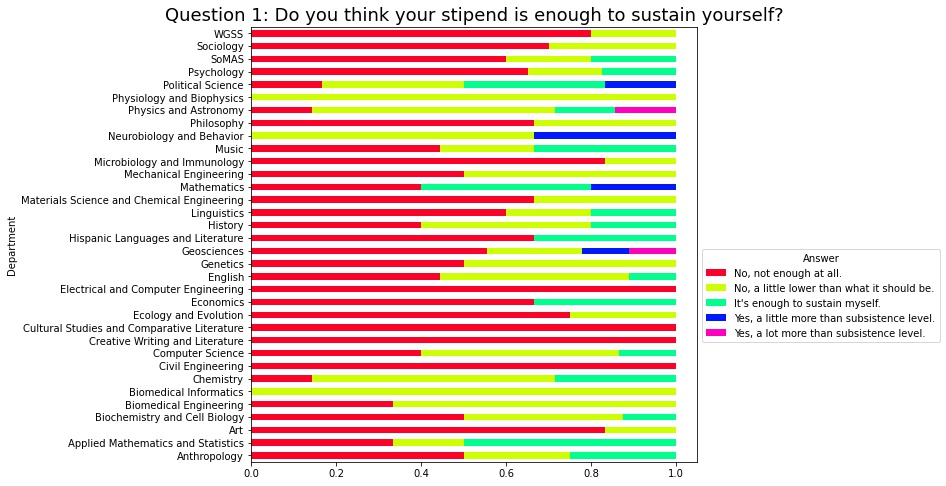
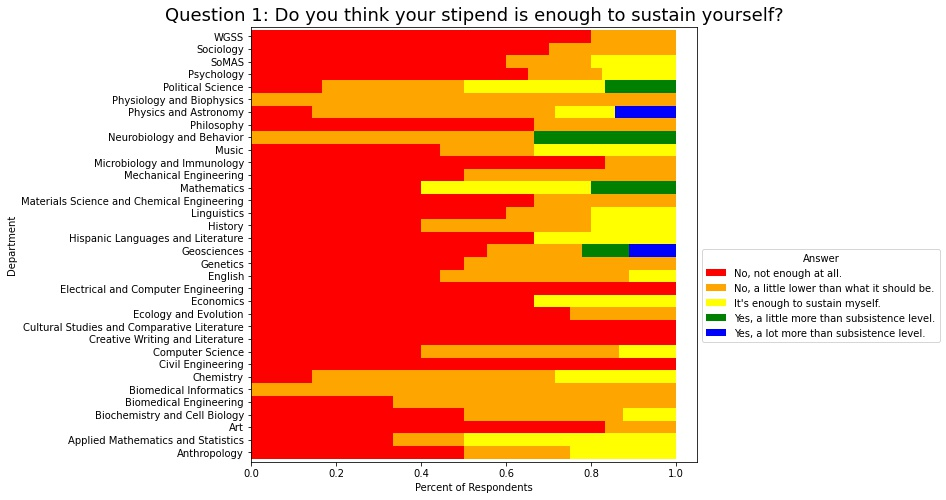
initial draft

diff --git a/index.html b/index.html
@@ -38,33 +38,69 @@
 
 									<span class="image main"><img src="images/GSEU_TwitterHeader.png" alt="" /></span>
 
-									<p>What is it like to be a graduate student in Stony Brook University? This is what we tried to find out in our recent survey on financial evaluation, which so far received 266 responses. We already knew that out of 63 AAU universities, Stony Brook ranks 57 in terms of the ratio of our net stipend to cost of living. Our findings portray with indubitable clarity the dismal life filled with anxiety and stress resulting from our financial struggles. <strong>(Read the full letter <a href="letter.html">here</a>)</strong></p>
+									<p> What is it like to be a graduate student in Stony Brook University? This is what we tried to find out in our recent survey on financial evaluation, which so far has received 266 responses. We already knew that out of 63 AAU universities, <a href="https://docs.google.com/spreadsheets/d/12QHeymmUnVK4b4Ab4DYH5rp_IVJ2F_fI">Stony Brook ranks 6th from the bottom</a> in terms of the ratio of our net stipend to cost of living. Our findings portray with indubitable clarity the dismal life filled with anxiety and stress resulting from our financial struggles. In our survey, 85% of the graduate workers said they cannot sustain themselves with their stipends, and 99% said they cannot "live comfortably, and to focus on your research, without financial worry and stress." Our financial issues force us to live paycheck to paycheck and to suffer from anxiety. Graduate workers cannot visit families, start families, leave abusive and unsafe living conditions, afford a healthy diet or pay for basic car maintenance because we do not have a living wage. <strong>We are basing our campaign on a living wage of $47,175</strong>, which was determined by the weighted average of the answers graduate workers gave when asked what they think a living wage for Suffolk County is. To read GSEU's statement on our survey at length, click <a href="letter.html">here</a>. The rest of this page includes the most significant findings from our survey.</p>
 									
-									<span class="image left"><img src="images/q1_pie.jpg" alt="" /><br><img src="images/q2_pie.jpg" alt="" /></span>
+									<h2>Grad workers struggle on current stipends</h2>
 									
-									<p>The numbers speak for themselves. We asked graduate workers if their stipend is enough to sustain themselves, 85% answered no. We asked them if their stipend is enough to “live comfortably, and to focus on your research, without financial worry and stress,” 99% said no. To the question in which we asked if they have encountered financial problems during their time in Stony Brook, 79% of graduate workers answered yes and 12% answered maybe, leaving only 9% who have not encountered financial problems during their time at Stony Brook. When we asked students if their financial problems impacted their research or teaching, 68% said yes and 18% said maybe, which leaves only 14% whose research and teaching has not been impacted by their finances. Another question we asked was if graduate workers’ mental health has been impacted by financial problems. 71% answered yes, 17% answered maybe, which means only 12% of Stony Brook graduate workers did not have mental health problems resulting from financial causes. Finally, how did Stony Brook graduate workers compare Stony Brook’s base stipend to what they think is a living wage? 99.6% said our base stipend is below living wage, 90% of the respondents to this question said our stipend is “very low” compared to a living wage.</p>
+									<p>We asked graduate students if their current stipend was enough to sustain themselves, and more than half responded that it was not enough at all.  While the proportion of respondents who stated that their stipend is not enough to sustain themselves at all differs somewhat by department (since base stipends differ between departments), the majority at least feel that their stipend is lower than it should be. When asked if the stipend is enough to live comfortably and without worry, <strong>the overwhelming majority stated that it was not enough</strong>.</p>
 									
-									<p>As striking as these numbers are, they carry with them a world of stories that express the tragic situations Stony Brook graduate workers live in. Many graduate students live paycheck to paycheck, leaving us with great anxiety over bills, rent, groceries, and possible emergency expenses that could bankrupt us. This anxiety pushes graduate workers to get second or third jobs, damaging our research and ability to teach. Graduate students live in unsafe or abusive homes because they cannot afford to move and get apartments by themselves. Some of us cannot afford to see our families, while others cannot afford to start one. Getting by with wages below living wage hurts our bodies by forcing us to choose unhealthy food because eating healthy means not being able to pay rent. Our wages leave us to choose between basic car maintenance or groceries, which endangers our lives. Our financial struggles turn our disciplines that we love into an exploitative reality, a source of so much financial misery and unhappiness that some of us consider leaving. We cannot afford a healthy diet, a safe and comfortable accommodation, ability to engage in normal social activities, and to live without mental health problems: in short, we cannot afford to live in a way deserving of a human being.</p>
+									<span class="image left"><img src="images/q1_pie.png" alt="" /></span>
 									
-									<blockquote>Luckily I have a very understanding landlord, but I'm constantly late on rent. I have taken second and third jobs to make ends meet, which detracts from my graduate work. I have no savings, nor any expendable income, and live paycheck-to-paycheck. </blockquote>
+									<span class="image right"><img src="images/q1.png" alt="" /></span>
 									
-									<blockquote>I currently live in a four bedroom house with four other people; I share a room with one of them. We really couldn't afford to have only four people splitting the rent here so we have a too full house with a very crowded kitchen. My partner and I would love to move out into a one bedroom somewhere, but we just couldn't make the rent. We briefly considered buying a house, because the mortgage payments would be cheaper than most rent and at least you own the house eventually, but we would never have been able to make a decent down payment and still be OK. </blockquote>
+									<span class="image right"><img src="images/q2_pie.png" alt="" /></span>
 									
-									<blockquote>The constant looming cloud of having a very strict budget to pay my bills and the knowledge of not having enough in an emergency has had a negative impact on my mental health and has prevented me from focusing completely on my research and duties.</blockquote>
+									<p>It comes as no surprise, then, that when we asked if graduate workers had ever encountered financial problems or had their research, teaching, or mental health impacted by financial worries, a majority responded yes. Specifically, survey respondents mentioned high rent, poor mental health, reduced research productivity, having to take other jobs, inability to afford food, contributing nothing to savings, medical and dental expenses, and inability to get cars or other necessary equipment repaired as some of the struggles they faced as a result of low wages. </p>
 									
-									<p>To our fellow graduate workers we say: you are not alone in financial and mental health struggles. You deserve to live a comfortable and happy life where you can follow your passions in research and teaching. Your financial struggles are not your fault and the life that your stipend confines you certainly does not express your value, ability, or merit as a graduate worker or a human being. </p>
+									<span class="image left"><img src="images/financial_problems.PNG" alt="" /></span>
 									
-									<p>We ask our faculty: do you want to see a university where all our programs flourish, where graduate workers produce the best research they can and our students receive the best quality of education possible? Do you want to see all graduate students live a happy and fulfilled life where they can realize their utmost potential? If so, we invite you to support our efforts for a living wage. Anxious, hungry, worried and financially struggling graduate workers do not make good researchers or educators. The advancement of all our programs lie in improving the conditions of graduate workers. </p>
+									<span class="image left"><img src="images/research_impact.PNG" alt="" /></span>
 									
-									<p>Lastly, we call on to President McInnis: you have professional, moral and personal responsibilities to ensure a living wage for graduate workers. </p>
+									<span class="image left"><img src="images/mental_health_impact.PNG" alt="" /></span>
 									
-									<p>We say professional responsibility because the current conditions of graduate workers betray the mission statement of Stony Brook University. The mission statement of the university includes providing highest quality education and research. We make the necessary repetition: anxious, hungry, worried and financially struggling graduate workers do not make good researchers or educators.</p> 
+									<p>Here are a few of the responses to the question "What are some issues, if any, that you experience due to the level of our base stipend? Please share with us financial, mental health related issues, or any other."</p>
 									
-									<p>We say moral responsibility, because as the president of our university, you have the power to end human suffering, relieve immense stress, worry and anxiety, and give comfort and happiness to thousands of graduate workers. We call on you to alleviate the issues graduate workers face, only a miniscule part of which we described above. </p>
+									<blockquote>University's dorms are too expensive to rent, so I have to find other places. However, these places are still too expensive compared with the net pay, about 60% per month, which is totally not acceptable. Also, when living off-campus, I have to afford a car and car insurance that also occupies a large portion of the salary.</blockquote>
 									
-									<p>We say personal responsibility because you have conveyed in various statements your care for graduate students’ lives and financial issues. In the announcement of the new Presidential Dissertation Completion & Extension Awards, you said that “[a]t Stony Brook, we value supporting our doctoral students.” We appreciate this sentiment. However, the overwhelming majority of graduate workers think the support they have received from the administration is insufficient. We asked in our survey whether the respondents think the new presidential awards are enough to solve graduate student financial hardship. 97.4% answered no. When we asked graduate workers if they support our living wage campaign 100% answered yes. Graduate workers have spoken and shown you the way they want their life to be improved: they want a living wage. </p>
+									<blockquote>During the past 5 years of working and studying at SBU, I always had to work a side job to be able to afford rent and groceries. It took a lot of time and energy away from my research.</blockquote>
 									
-									<p>What is the living wage we are demanding? This was another question we asked graduate workers in our survey. We provided </p>
+								</section>
+								<section>
+									
+									<h2>How a living wage would impact grad workers' lives</h2>
+									
+									<p>We have already established that low stipends negatively impact grad workers' quality of life by plaguing them with financial worries that hurt their research and teaching performance as well as their mental health. In our survey, we also asked grad workers how a living wage would change their lives. They mentioned having more time to focus on research, improved mental health, not having to take other jobs, ability to purchase needed equipment, attending more conferences, and dedicating more money to research projects as specific improvements that would result from earning a living wage.</p>
+									
+									<p>Here are a few of the responses graduate students gave when asked what effect a higher stipend would have on their life, mental health, and research.</p>
+									
+									<blockquote>If I had a higher stipend, I would be able to quit a few of my jobs and focus more wholly on my academics.</blockquote>
+									
+									<blockquote>I wake up with nightmares related to financial stress several times a week. So, I'd at least sleep a bit sounder. I wouldn't have moments of panic when my bank account hits $0, or overdraws.</blockquote>
+									
+									<blockquote>Be able to focus on my research/teaching instead of trying to figure out how to sustain myself or trying to figure out who to borrow money and feel extremely shameful. I can't even have other jobs because of my visa status (F-1)</blockquote>
+									
+									<blockquote>My research productivity, motivation and quality would improve by leaps and bounds if I had a better quality of life and didn't have to worry about money.</blockquote>
+								
+								</section>	
+								<section>
+									
+									<h2>What is a living wage, and how can you help achieve it?</h2>
+									
+									<span class="image left"><img src="images/epi.PNG" alt="" /></span>
+									
+									
+									
+									<p>The Economic Policy Institute (EPI) states that a living wage in Suffolk County is $50,717 per year. According to our survey results, the majority of graduate students agree that this wage would be enough to live comfortably. We also asked them how Stony Brook's current stipends compare to a living wage. The vast majority responded that <strong>Stony Brook's base stipend is very low compared to a living wage</strong>.</p>
+									
+									<span class="image right"><img src="images/stipend_compare.PNG" alt="" /></span>
+									
+									<p>Finally, we asked graduate students what they thought a living wage was. The weighted average of all the answers we got was an annual amount of <strong>$47,157</strong>. This is what graduate workers collectively believe a living wage is and the figure that we will be basing our campaign on. <strong>We call on the Stony Brook administration to provide all graduate workers a living wage of $47,157.</strong></p>
+									
+									<p>To support our living wage campaign, please sign the petition by clicking the button below.</p>
+									
+									<form action="https://forms.gle/kM8jNSeG3kRmLYah9" target="_blank">
+										<input class="button primary" type="submit" value="Sign the Petition" />
+									</form>
 
 								
 								</section>

diff --git a/letter.html b/letter.html
@@ -38,27 +38,25 @@
 
 									<span class="image main"><img src="images/GSEU_TwitterHeader.png" alt="" /></span>
 
-									<p>What is it like to be a graduate student in Stony Brook University? This is what we tried to find out in our recent survey on financial evaluation, which so far received 266 responses. Our findings portray a dismal, debilitating, and anguished life filled with anxiety and stress resulting from poverty. </p>
+									<p>What is it like to be a graduate student in Stony Brook University? This is what we tried to find out in our recent survey on financial evaluation, which so far has received 266 responses. We already knew that out of 63 AAU universities, <a href="https://docs.google.com/spreadsheets/d/12QHeymmUnVK4b4Ab4DYH5rp_IVJ2F_fI">Stony Brook ranks 6th from the bottom</a> in terms of the ratio of our net stipend to cost of living. Our findings portray with indubitable clarity the dismal life filled with anxiety and stress resulting from our financial struggles. </p>
 									
-									<p>The numbers speak for themselves. We asked graduate workers if their stipend is enough to sustain themselves, 85% answered no. We asked them if their stipend is enough to “live comfortably, and to focus on your research, without financial worry and stress,” 99% said no. To the question in which we asked if they have encountered financial problems during their time in Stony Brook, 79% of graduate workers answered yes and 12% answered maybe, leaving only 9% who have not encountered financial problems during their time at Stony Brook. When we asked students if their financial problems impacted their research or teaching, 68% said yes and 18% said maybe, which leaves only 14% whose research and teaching has not been impacted by their finances. Another question we asked was if graduate workers’ mental health has been impacted by financial problems. 71% answered yes, 17% answered maybe, which means only 12% of Stony Brook graduate workers did not have mental health problems resulting from financial causes. Finally, how did Stony Brook graduate workers compare Stony Brook’s base stipend to what they think is a living wage? 99.6% said our base stipend is below living wage, 90% of the respondents to this question said our stipend is “very low” compared to a living wage. </p>
+									<p>The numbers speak for themselves. We asked graduate workers if their stipend is enough to sustain themselves, 85% answered no. We asked them if their stipend is enough to “live comfortably, and to focus on your research, without financial worry and stress,” 99% said no. When we asked workers if they have encountered financial problems during their time at Stony Brook, 79% of graduate workers answered yes and 12% answered maybe, leaving only 9% who have not encountered financial problems during their time at Stony Brook. When we asked graduate workers if their financial problems impacted their research or teaching, 68% said yes and 18% said maybe, which leaves only 14% whose research and teaching has not been impacted by their finances. Another question we asked was if graduate workers’ mental health has been impacted by financial problems. 71% answered yes, 17% answered maybe, which means only 12% of Stony Brook graduate workers did not have mental health problems resulting from financial causes. Finally, we asked how  Stony Brook graduate workers thought Stony Brook’s base stipend compared to what they think of as a living wage? 99.6% said our base stipend is below a living wage, with 90% of the respondents saying our base stipend is “very low” compared to a living wage. </p>
 									
-									<p>However, as striking as these numbers are, they carry with them a world of stories that express the tragic situations Stony Brook graduate workers live in. In our survey we saw that many graduate students live paycheck to paycheck, leaving us with great anxiety over bills, rent, groceries, and possible emergency expenses that could bankrupt us. This anxiety pushes many graduate workers to get second or third jobs, damaging our research and competence as educators. Graduate students live in unsafe or abusive homes because they cannot afford to move and get apartments by themselves. Some of us cannot afford to see our families, while others cannot afford to start one. We cannot afford a healthy diet, a safe and comfortable accommodation, ability to engage in normal social activities, and to live without mental health problems: in short, we cannot afford to live in a way deserving of a human being.</p>
+									<p>As striking as these numbers are, they carry with them a world of stories that express the tragic situations Stony Brook graduate workers live in. Many graduate students live paycheck to paycheck, leaving us with great anxiety over bills, rent, groceries, and possible emergency expenses that could bankrupt us. This anxiety pushes graduate workers to get second or third jobs, damaging our research and ability to teach. Graduate students live in unsafe or abusive homes because they cannot afford to move and get apartments by themselves. Some of us cannot afford to see our families, while others cannot afford to start one. Getting by with wages below living wage hurts our bodies by forcing us to choose unhealthy food because eating healthy means not being able to pay rent. Our wages leave us to choose between basic car maintenance or groceries, which endangers our lives. Our financial struggles turn the disciplines that we love into an exploitative reality, a source of so much financial misery and unhappiness that some of us consider leaving. We cannot afford a healthy diet, safe and comfortable accommodations, the ability to engage in normal social activities, or to live without mental health problems. In short, we cannot afford to live in a way deserving of a human being.</p>
+												
+									<p>To our fellow graduate workers we say: you are not alone in financial and mental health struggles. You deserve to live a comfortable and happy life where you can follow your passions in research and teaching. Your financial struggles are not your fault and the life that your stipend confines you to certainly does not express your value, ability, or merit as a graduate worker or a human being. </p>
 									
-									<p>Trying to survive with stipends below a living wage is hurting us. This hurts our mental health, fueling depression and anxiety for some of us, by making us worry constantly about whether we will be able to afford to live next week, and dreading a simple emergency that will leave us ungrounded. It hurts us by confining us to harmful and abusive living conditions. It hurts us by keeping us from visiting our families and friends, or even having dinner in a “restaurant or a cup of coffee in a cafe with them, because it’d be too expensive”. It hurts our bodies by forcing us to choose unhealthy food because eating healthy means not being able to pay rent. It hurts us when it leaves us to choose between basic car maintenance or groceries, which endangers our lives. It hurts us when it turns our disciplines that we love and come to Stony Brook to dedicate our lives to, into an exploitative reality, a source of financial misery and unhappiness. This is why we acknowledge the problem of living wage as a problem of violence, a structural, slow and long-term violence that hurts us on many levels. </p>
-									
-									<p>To our fellow graduate workers we say: you are not alone in your problems. The financial and mental health issues you are experiencing are not isolated. You deserve to live a comfortable and happy life where you can follow your passions in research and teaching. Your financial struggles are not your fault and the life that your stipend confines you certainly does not express your value, ability, or merit as a graduate worker or a human being. </p>
-									
-									<p>We ask our faculty: do you want to see a university where all our programs flourish, where graduate workers produce the best research they can and our students receive the best quality of education possible? Do you want to see all graduate students live a happy and fulfilled life where they can realize their utmost potential? If so, we invite you to support our efforts for a living wage. Anxious, hungry, worried and financially struggling graduate workers do not make good researchers or educators. The advancement of all our programs lie in improving the conditions of graduate workers. </p>
+									<p>To faculty and staff, we ask: do you want to see a university where all our programs flourish, where graduate workers produce the best research they can and our students receive the best quality of education possible? Do you want to see all graduate students live a happy and fulfilled life where they can realize their utmost potential? If so, we invite you to support our efforts for a living wage. Anxious, hungry, worried and financially struggling graduate workers do not make good researchers or educators. The advancement of all our programs lie in improving the conditions of graduate workers.</p>
 									
 									<p>Lastly, we call on to President McInnis: you have professional, moral and personal responsibilities to ensure a living wage for graduate workers. </p>
 									
-									<p>We say professional responsibility because the current conditions of graduate workers betray the mission statement of Stony Brook University. The mission statement of the university includes providing highest quality education and research. We make the necessary repetition: anxious, hungry, worried and financially struggling graduate workers do not make good researchers or educators. Stony Brook mission statement also includes providing a “leadership for economic growth” for “neighboring communities and the wider geographic region.” How can a university that cannot even give a living wage to its workers provide economic leadership to the community? President McInnis, as the president of our university, to fulfill the mission statement of Stony Brook University effectively, we call on you to provide a living wage for graduate workers.</p>
+									<p>We say professional responsibility because the current conditions of graduate workers betray the mission statement of Stony Brook University. The mission statement of the university includes providing the highest quality education and research. We make the necessary repetition: anxious, hungry, worried and financially struggling graduate workers do not make good researchers or educators.p>
 									
 									<p>We say moral responsibility, because as the president of our university, you have the power to end human suffering, relieve immense stress, worry and anxiety, and give comfort and happiness to thousands of graduate workers. We call on you to alleviate the issues graduate workers face, only a miniscule part of which we described above. </p>
 									
-									<p>We say personal responsibility because you have conveyed in different statements and initiatives your care for graduate students’ lives and financial issues. In your announcement of our fee scholarship, you said that you know how critical graduate workers are for the research and teaching in our university. In the announcement of the new Presidential Dissertation Completion & Extension Awards, you said that “[a]t Stony Brook, we value supporting our doctoral students” and emphasized that “[g]iving our doctoral students additional financial and intellectual resources enables them to go further in their studies and break new intellectual ground, and their individual success becomes our success as a university.” We agree with this statement. However, the overwhelming majority of graduate workers think the support they have received from the administration is insufficient. We asked in our survey whether the respondents think the new presidential awards are enough to solve graduate student financial hardship. 97.4% answered no. When we asked graduate workers if they support our living wage campaign 100% answered yes. President McInnis, if you are candid in your mission to support graduate workers, they have spoken and shown you the way, and they want a living wage. </p>
+									<p>We say personal responsibility because you have conveyed in various statements your care for graduate students’ lives and financial issues. In the announcement of the new Presidential Dissertation Completion & Extension Awards, you said that “[a]t Stony Brook, we value supporting our doctoral students.” We appreciate this sentiment. However, the overwhelming majority of graduate workers think the support they have received from the administration is insufficient. We asked in our survey whether the respondents think the new presidential awards are enough to solve graduate student financial hardship. 97.4% answered no. When we asked graduate workers if they support our living wage campaign, 100% answered yes. Graduate workers have spoken and they have shown you the way they want their life to be improved: we want and we need a living wage. </p>
 									
-									<p>What is the living wage we are demanding? This was another question we asked graduate workers in our survey. We provided </p>
+									<p>What is the living wage we are demanding? This was another question we asked graduate workers in our survey. We provided different options with 5k ranges that started from 15k and went up to 70k. The weighted average of all the answers we got was an annual amount of $47,157.00. This is what graduate workers collectively believe a living wage is and the figure that we will be basing our campaign on. We call on the Stony Brook administration to provide all graduate workers a living wage of $47,157.00.</p>
 
 
 								

diff --git a/assets/css/main.css b/assets/css/main.css
@@ -192,6 +192,7 @@ sup {
 
 blockquote {
   border-left: solid 3px rgba(211, 78, 60, 1);
+  background-color: rgba(165, 192, 205, .5);
   font-size: 1.25em;
   font-style: italic;
   margin: 0 0 2em 0;
@@ -1220,12 +1221,14 @@ input[type="radio"] + label:before {
   border-radius: 0.375em;
   border: 0;
   display: inline-block;
+  /*max-width: 50%;*/
   position: relative; }
   .image img {
     border-radius: 0.375em;
+	/*width: 100%;*/
     display: block; }
   .image.left, .image.right {
-    max-width: 40%; }
+    max-width: 50%; }
     .image.left img, .image.right img {
       width: 100%; }
   .image.left {
